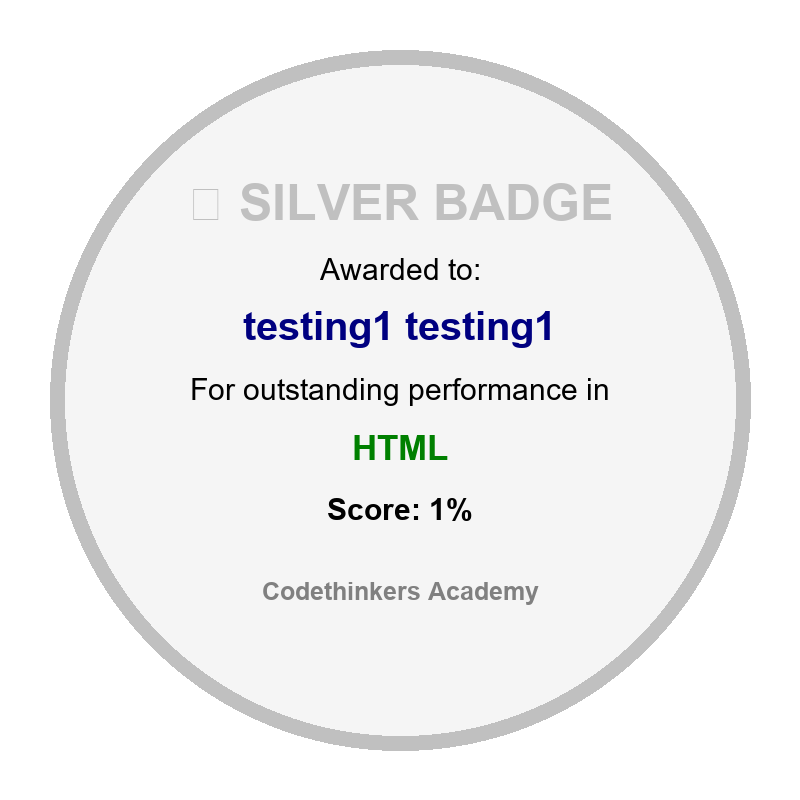
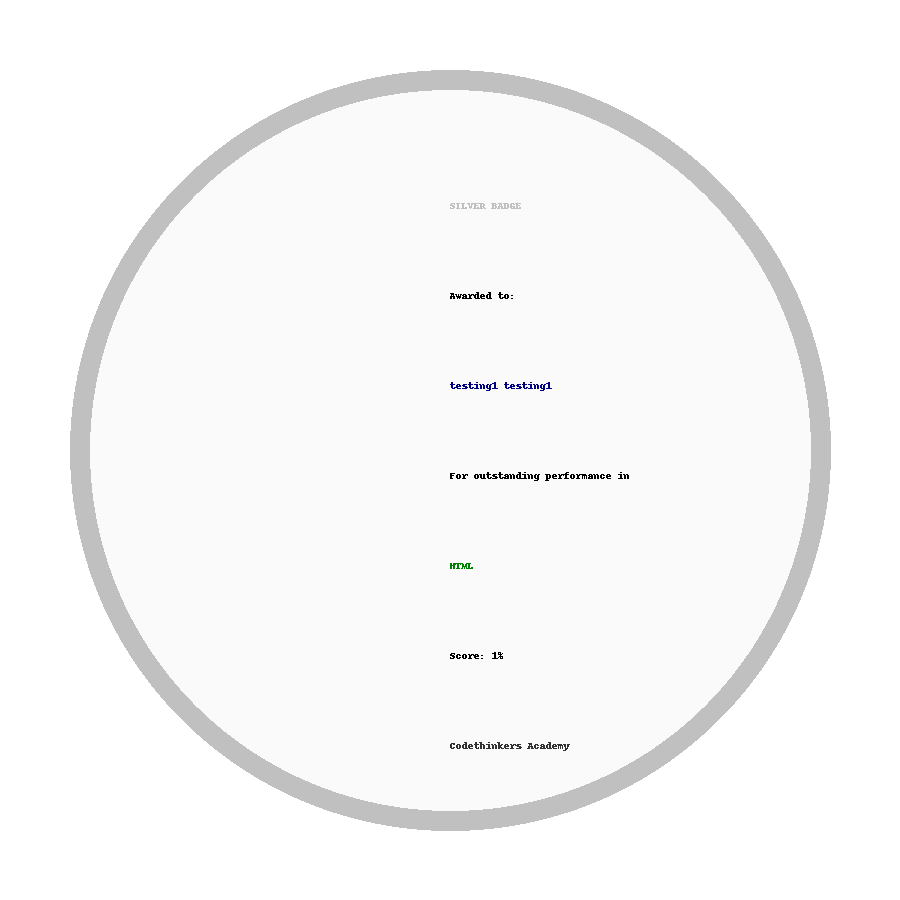
Remove accidentally added temp-clean directory

diff --git a/sms/views.py b/sms/views.py
@@ -1421,15 +1421,16 @@ from reportlab.pdfbase import pdfmetrics
 from django.http import HttpResponse
 import os
 
-from PIL import Image, ImageDraw, ImageFont
+import os
+from django.conf import settings
 from django.http import HttpResponse
 from django.shortcuts import get_object_or_404
-from django.conf import settings
 from django.contrib.staticfiles import finders
-import os
+from PIL import Image, ImageDraw, ImageFont
+from users.models import Profile
 
-def download_and_share_badge(request, student_id, course_id, rank):
-    # --- Fetch objects ---
+
+def download_badge_image(request, student_id, course_id, rank):
     result = get_object_or_404(Result, student__id=student_id, exam__id=course_id)
     course = get_object_or_404(Course, id=course_id)
 
@@ -1451,184 +1452,54 @@ def download_and_share_badge(request, student_id, course_id, rank):
         medal_emoji = "🥉"
 
     # --- Image settings ---
-    size = 800
-    center = size // 2
+    width, height = 800, 800
+    center = (width // 2, height // 2)
     badge_radius = 350
-
-    # Transparent base
-    img = Image.new("RGBA", (size, size), (255, 255, 255, 0))
+    img = Image.new("RGBA", (width, height), (255, 255, 255, 0))
     draw = ImageDraw.Draw(img)
 
-    # Circular badge
-    draw.ellipse(
-        (center - badge_radius, center - badge_radius,
-         center + badge_radius, center + badge_radius),
-        fill=(245, 245, 245, 255),
-        outline=badge_color,
-        width=15
-    )
-
-    # --- Circular mask to enforce transparency outside ---
-    mask = Image.new("L", (size, size), 0)
-    mask_draw = ImageDraw.Draw(mask)
-    mask_draw.ellipse((0, 0, size, size), fill=255)
+    # --- Circular background ---
+    draw.ellipse([
+        (center[0] - badge_radius, center[1] - badge_radius),
+        (center[0] + badge_radius, center[1] + badge_radius)
+    ], fill=(245, 245, 245), outline=badge_color, width=15)
 
     # --- Logo watermark ---
-    logo_path = finders.find("images/logo.png")
-    if logo_path and os.path.exists(logo_path):
+    logo_path = os.path.join("static", "images", "logo.png")
+    if os.path.exists(logo_path):
         logo = Image.open(logo_path).convert("RGBA")
         logo = logo.resize((150, 150))
         alpha = logo.split()[3].point(lambda i: i * 0.1)
         logo.putalpha(alpha)
-        img.paste(logo, (center - 75, center - 75), mask=logo)
+        img.paste(logo, (center[0]-75, center[1]-75), mask=logo)
 
     # --- Fonts ---
-    font_bold_path = finders.find("fonts/arialbd.ttf")
-    font_regular_path = finders.find("fonts/arial.ttf")
-    title_font = ImageFont.truetype(font_bold_path, 50)
-    subtitle_font = ImageFont.truetype(font_regular_path, 30)
-    name_font = ImageFont.truetype(font_bold_path, 40)
-    course_font = ImageFont.truetype(font_bold_path, 35)
-    score_font = ImageFont.truetype(font_bold_path, 30)
-    footer_font = ImageFont.truetype(font_bold_path, 25)
+    font_path_bold = os.path.join("static", "fonts", "arialbd.ttf")
+    font_path = os.path.join("static", "fonts", "arial.ttf")
+    title_font = ImageFont.truetype(font_path_bold, 50)
+    subtitle_font = ImageFont.truetype(font_path, 30)
+    name_font = ImageFont.truetype(font_path_bold, 40)
+    course_font = ImageFont.truetype(font_path_bold, 35)
+    score_font = ImageFont.truetype(font_path_bold, 30)
+    footer_font = ImageFont.truetype(font_path_bold, 25)
 
     # --- Draw texts ---
-    y_start = center - 180
+    y_start = center[1] - 180
     spacing = 60
-    draw.text((center, y_start), f"{medal_emoji} {badge_name}", font=title_font, fill=badge_color, anchor="ms")
-    draw.text((center, y_start + spacing), "Awarded to:", font=subtitle_font, fill=(0, 0, 0), anchor="ms")
-    draw.text((center, y_start + spacing*2), f"{result.student.first_name} {result.student.last_name}", font=name_font, fill=(0, 0, 128), anchor="ms")
-    draw.text((center, y_start + spacing*3), "For outstanding performance in", font=subtitle_font, fill=(0, 0, 0), anchor="ms")
-    draw.text((center, y_start + spacing*4), f"{course.course_name}", font=course_font, fill=(0, 128, 0), anchor="ms")
-    draw.text((center, y_start + spacing*5), f"Score: {result.marks}%", font=score_font, fill=(0, 0, 0), anchor="ms")
-    draw.text((center, y_start + spacing*6 + 20), "Codethinkers Academy", font=footer_font, fill=(128, 128, 128), anchor="ms")
+    draw.text((center[0], y_start), f"{medal_emoji} {badge_name}", font=title_font, fill=badge_color, anchor="ms")
+    draw.text((center[0], y_start + spacing), "Awarded to:", font=subtitle_font, fill=(0,0,0), anchor="ms")
+    draw.text((center[0], y_start + spacing*2), f"{result.student.first_name} {result.student.last_name}", font=name_font, fill=(0,0,128), anchor="ms")
+    draw.text((center[0], y_start + spacing*3), "For outstanding performance in", font=subtitle_font, fill=(0,0,0), anchor="ms")
+    draw.text((center[0], y_start + spacing*4), f"{course.course_name}", font=course_font, fill=(0,128,0), anchor="ms")
+    draw.text((center[0], y_start + spacing*5), f"Score: {result.marks}%", font=score_font, fill=(0,0,0), anchor="ms")
+    draw.text((center[0], y_start + spacing*6 + 20), "Codethinkers Academy", font=footer_font, fill=(128,128,128), anchor="ms")
 
-    # --- Apply circular mask ---
-    final_img = Image.new("RGBA", (size, size))
-    final_img.paste(img, (0, 0), mask=mask)
-
-    # --- Save badge ---
-    badge_dir = os.path.join(settings.MEDIA_ROOT, "badges")
-    os.makedirs(badge_dir, exist_ok=True)
+    # --- Return response with forced download ---
+    response = HttpResponse(content_type="image/png")
     filename = f"{result.student.first_name}_{badge_name}.png"
-    badge_path = os.path.join(badge_dir, filename)
-    final_img.save(badge_path, "PNG")
-
-    # --- Badge URL for sharing ---
-    badge_url = request.build_absolute_uri(os.path.join(settings.MEDIA_URL, "badges", filename))
-
-    # --- Social share links ---
-    share_links = {
-        "whatsapp": f"https://wa.me/?text=I earned my {badge_name} in {course.course_name} at Codethinkers! Check out my badge: {badge_url}",
-        "twitter": f"https://twitter.com/intent/tweet?text=I earned my {badge_name} in {course.course_name} at Codethinkers! 🎓 {badge_url}",
-        "linkedin": f"https://www.linkedin.com/sharing/share-offsite/?url={badge_url}",
-        "facebook": f"https://www.facebook.com/sharer/sharer.php?u={badge_url}",
-    }
-
-    # --- HTML response ---
-    html_content = f"""
-    <html>
-    <head>
-        <title>{badge_name} Badge</title>
-        <style>
-            body {{ font-family: Arial, sans-serif; text-align: center; padding: 50px; background: #f9f9f9; }}
-            .badge-img {{
-                border-radius: 50%;
-                box-shadow: 0 8px 20px rgba(0,0,0,0.3);
-                max-width: 400px;
-            }}
-            .share-btn {{ margin: 10px; padding: 10px 20px; border: none; border-radius: 5px; color: white; text-decoration: none; }}
-            .whatsapp {{ background-color: #25D366; }}
-            .twitter {{ background-color: #1DA1F2; }}
-            .linkedin {{ background-color: #0077B5; }}
-            .facebook {{ background-color: #3b5998; }}
-            .download {{ background-color: #555555; }}
-        </style>
-    </head>
-    <body>
-        <h1>{medal_emoji} {badge_name}</h1>
-        <img class="badge-img" src="{badge_url}" alt="Badge"/><br><br>
-        <a href="{badge_url}" download class="share-btn download">Download Badge</a><br><br>
-        <a href="{share_links['whatsapp']}" target="_blank" class="share-btn whatsapp">Share on WhatsApp</a>
-        <a href="{share_links['twitter']}" target="_blank" class="share-btn twitter">Share on Twitter</a>
-        <a href="{share_links['linkedin']}" target="_blank" class="share-btn linkedin">Share on LinkedIn</a>
-        <a href="{share_links['facebook']}" target="_blank" class="share-btn facebook">Share on Facebook</a>
-    </body>
-    </html>
-    """
-    return HttpResponse(html_content)
-
-
-# def download_badge_image(request, student_id, course_id, rank):
-#     result = get_object_or_404(Result, student__id=student_id, exam__id=course_id)
-#     course = get_object_or_404(Course, id=course_id)
-
-#     # --- Badge type ---
-#     badge_name = "Participant"
-#     badge_color = (0, 0, 0)
-#     medal_emoji = ""
-#     if rank == 1:
-#         badge_name = "GOLD BADGE"
-#         badge_color = (255, 215, 0)
-#         medal_emoji = "🏆"
-#     elif rank == 2:
-#         badge_name = "SILVER BADGE"
-#         badge_color = (192, 192, 192)
-#         medal_emoji = "🥈"
-#     elif rank == 3:
-#         badge_name = "BRONZE BADGE"
-#         badge_color = (205, 127, 50)
-#         medal_emoji = "🥉"
-
-#     # --- Image settings ---
-#     width, height = 800, 800
-#     center = (width // 2, height // 2)
-#     badge_radius = 350
-#     img = Image.new("RGBA", (width, height), (255, 255, 255, 0))
-#     draw = ImageDraw.Draw(img)
-
-#     # --- Circular background ---
-#     draw.ellipse([
-#         (center[0] - badge_radius, center[1] - badge_radius),
-#         (center[0] + badge_radius, center[1] + badge_radius)
-#     ], fill=(245, 245, 245), outline=badge_color, width=15)
-
-#     # --- Logo watermark ---
-#     logo_path = os.path.join("static", "images", "logo.png")
-#     if os.path.exists(logo_path):
-#         logo = Image.open(logo_path).convert("RGBA")
-#         logo = logo.resize((150, 150))
-#         alpha = logo.split()[3].point(lambda i: i * 0.1)
-#         logo.putalpha(alpha)
-#         img.paste(logo, (center[0]-75, center[1]-75), mask=logo)
-
-#     # --- Fonts ---
-#     font_path_bold = os.path.join("static", "fonts", "arialbd.ttf")
-#     font_path = os.path.join("static", "fonts", "arial.ttf")
-#     title_font = ImageFont.truetype(font_path_bold, 50)
-#     subtitle_font = ImageFont.truetype(font_path, 30)
-#     name_font = ImageFont.truetype(font_path_bold, 40)
-#     course_font = ImageFont.truetype(font_path_bold, 35)
-#     score_font = ImageFont.truetype(font_path_bold, 30)
-#     footer_font = ImageFont.truetype(font_path_bold, 25)
-
-#     # --- Draw texts ---
-#     y_start = center[1] - 180
-#     spacing = 60
-#     draw.text((center[0], y_start), f"{medal_emoji} {badge_name}", font=title_font, fill=badge_color, anchor="ms")
-#     draw.text((center[0], y_start + spacing), "Awarded to:", font=subtitle_font, fill=(0,0,0), anchor="ms")
-#     draw.text((center[0], y_start + spacing*2), f"{result.student.first_name} {result.student.last_name}", font=name_font, fill=(0,0,128), anchor="ms")
-#     draw.text((center[0], y_start + spacing*3), "For outstanding performance in", font=subtitle_font, fill=(0,0,0), anchor="ms")
-#     draw.text((center[0], y_start + spacing*4), f"{course.course_name}", font=course_font, fill=(0,128,0), anchor="ms")
-#     draw.text((center[0], y_start + spacing*5), f"Score: {result.marks}%", font=score_font, fill=(0,0,0), anchor="ms")
-#     draw.text((center[0], y_start + spacing*6 + 20), "Codethinkers Academy", font=footer_font, fill=(128,128,128), anchor="ms")
-
-#     # --- Return response with forced download ---
-#     response = HttpResponse(content_type="image/png")
-#     filename = f"{result.student.first_name}_{badge_name}.png"
-#     response['Content-Disposition'] = f'attachment; filename="{filename}"'
-#     img.save(response, "PNG")
-#     return response
+    response['Content-Disposition'] = f'attachment; filename="{filename}"'
+    img.save(response, "PNG")
+    return response
 
 
 # @login_required

diff --git a/sms/urls.py b/sms/urls.py
@@ -53,7 +53,7 @@ app_name = 'sms'
 urlpatterns = [
     
 
-    path("download-badge/<int:student_id>/<int:course_id>/<int:rank>/", views.download_and_share_badge, name="download_badge"),
+    path("download-badge/<int:student_id>/<int:course_id>/<int:rank>/", views.download_badge_image, name="download_badge"),
 
     path('ebooks/<int:pk>/', Ebooks.as_view(), name='ebooks'),
     # path('pdf_document_detail/<str:pk>/', pdf_document_detail.as_view(), name='pdf_document_detail'),
